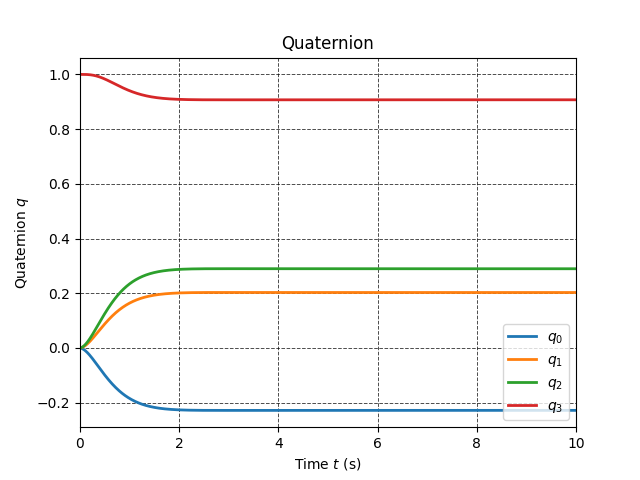
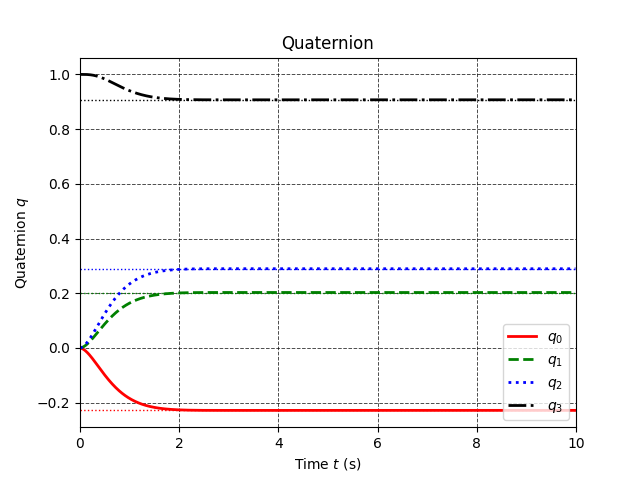
ID control in regressor form

diff --git a/Brick/main.py b/Brick/main.py
@@ -223,7 +223,7 @@ def simulate_system(state_init, frequency, t_0, t_final):
     t_star = np.linspace(0, dT, 10)
     per = 3
     state_prev = state_init
-    states, quats, angles = [], [], []
+    states, quats, quats_d, angles = [], [], [], []
     U_pos, U_att = [], []
     for i in range(len(t)):
         t_curr = t[i]
@@ -235,6 +235,7 @@ def simulate_system(state_init, frequency, t_0, t_final):
         state_prev = state[-1]
 
         quats.append(state_prev[6:10])
+        quats_d.append(quat_d)
         # d_w.append(state_prev[4:7])
         states.append(state_prev)
         angle = Rotation.from_quat(state_prev[6:10])
@@ -244,6 +245,7 @@ def simulate_system(state_init, frequency, t_0, t_final):
 
     states = np.array(states)
     quats = np.array(quats)
+    quats_d = np.array(quats_d)
     angles = np.array(angles)
     U_pos = np.array(U_pos)
     U_att = np.array(U_att)
@@ -251,8 +253,11 @@ def simulate_system(state_init, frequency, t_0, t_final):
 
     figure()
     text = ['$q_0$', '$q_1$', '$q_2$', '$q_3$']
+    colors = ['r', 'g', 'b', 'k']
+    styles = ['-', '--', ':', '-.']
     for i in range(4):
-        plot(t, quats[:,i], linewidth=2.0, label=str(text[i]))
+        plot(t, quats[:,i], color=str(colors[i]), linewidth=2.0, linestyle=str(styles[i]), label=str(text[i]))
+        plot(t, quats_d[:, i], color=str(colors[i]), linewidth=1.0, linestyle=':')
     grid(color='black', linestyle='--', linewidth=0.7, alpha=0.7)
     xlim([t_0, t_final])
     ylabel(r'Quaternion ${q}$')
@@ -405,8 +410,8 @@ def simulate_system(state_init, frequency, t_0, t_final):
     ani = animation.FuncAnimation(fig, animate, frames=np.shape(data)[1],
                                     interval=dT) #repeat=False,
                                     
-    writer = animation.PillowWriter(fps=100)
-    ani.save('Brick/animation.gif', writer=writer)
+    # writer = animation.PillowWriter(fps=100)
+    # ani.save('Brick/animation.gif', writer=writer)
     show()
 
 
